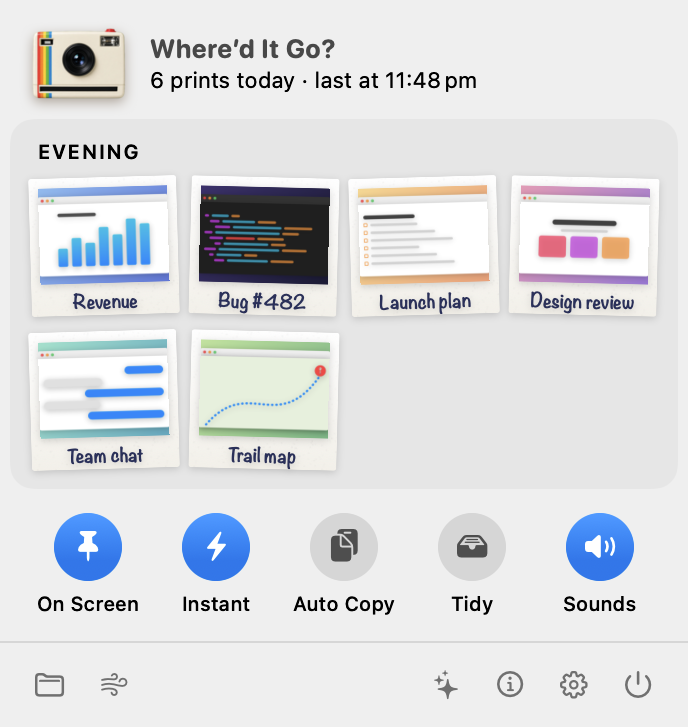
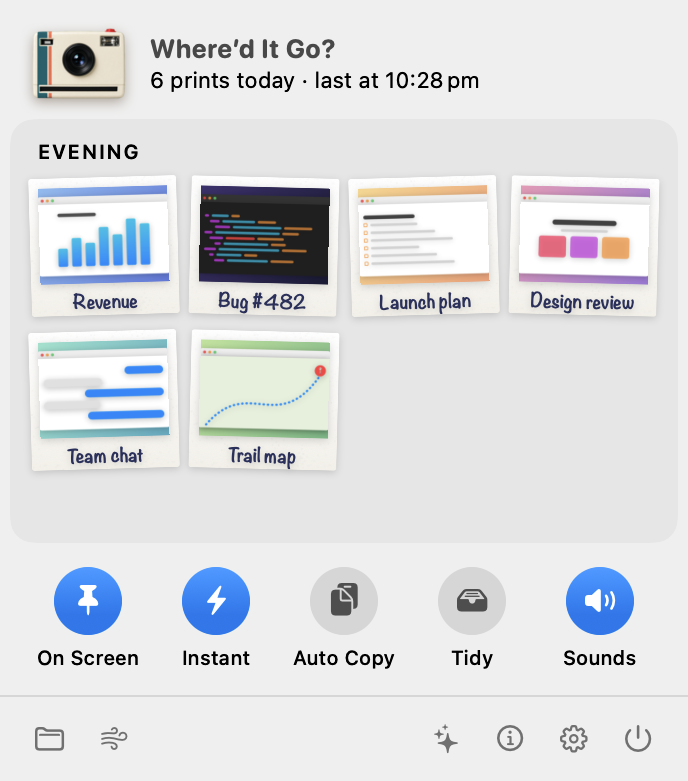
Release 1.1.3: our own teal and coral camera stripe, refreshed README images

diff --git a/Sources/WheredItGo/Views/MenuContent.swift b/Sources/WheredItGo/Views/MenuContent.swift
@@ -19,6 +19,12 @@ struct MenuContent: View {
 
     /// Room for two time-of-day rows of prints, or two rows under one heading; more scrolls.
     private static let sheetHeight: CGFloat = 212
+    #if DEBUG
+    /// Snapshots can't draw a scroll view's contents.
+    static var drawsFlat = false
+    #else
+    private static let drawsFlat = false
+    #endif
 
     private var today: [Shot] {
         model.shots.filter { Calendar.current.isDateInToday($0.date) }
@@ -37,6 +43,8 @@ struct MenuContent: View {
                     accessNeeded
                 } else if today.isEmpty {
                     emptyState
+                } else if Self.drawsFlat {
+                    contactSheet.frame(maxHeight: .infinity, alignment: .top)
                 } else {
                     ScrollView { contactSheet }
                         .scrollIndicators(.automatic)
@@ -99,9 +107,14 @@ struct MenuContent: View {
                             .tracking(0.8)
                             .foregroundStyle(.tertiary)
                             .padding(.leading, 4)
-                        LazyVGrid(columns: Array(repeating: GridItem(.fixed(74), spacing: 6), count: 4), alignment: .leading, spacing: 8) {
-                            ForEach(Array(shots.enumerated()), id: \.element.id) { index, shot in
-                                MiniPrint(shot: shot, model: model, tilt: index.isMultiple(of: 2) ? -1.6 : 1.4, close: closeMenu)
+                        Grid(alignment: .leading, horizontalSpacing: 6, verticalSpacing: 8) {
+                            ForEach(Array(stride(from: 0, to: shots.count, by: 4)), id: \.self) { start in
+                                GridRow {
+                                    ForEach(start..<min(start + 4, shots.count), id: \.self) { index in
+                                        MiniPrint(shot: shots[index], model: model, tilt: index.isMultiple(of: 2) ? -1.6 : 1.4, close: closeMenu)
+                                            .frame(width: 74)
+                                    }
+                                }
                             }
                         }
                     }

diff --git a/Sources/WheredItGo/Debug/Snapshots.swift b/Sources/WheredItGo/Debug/Snapshots.swift
@@ -114,8 +114,10 @@ enum Snapshots {
         try write(AnyView(MenuContent(model: model, showWelcome: {}, showAbout: {}).background(.regularMaterial)),
                   to: folder.appending(path: "10-menu-empty.png"))
         model.stage(shots: shots, printing: nil, develop: 1, expanded: false, hint: false)
+        MenuContent.drawsFlat = true
         try write(AnyView(MenuContent(model: model, showWelcome: {}, showAbout: {}).background(.regularMaterial)),
                   to: folder.appending(path: "10-menu.png"))
+        MenuContent.drawsFlat = false
         try write(AnyView(AboutView(model: model, animated: false).background(Color(nsColor: .windowBackgroundColor))),
                   to: folder.appending(path: "11-about.png"))
         try write(AnyView(HStack(spacing: 20) {

diff --git a/Sources/WheredItGo/Model/DeskModel.swift b/Sources/WheredItGo/Model/DeskModel.swift
@@ -451,7 +451,7 @@ final class DeskModel {
         return CGSize(width: dx / distance * reach, height: dy / distance * reach)
     }
 
-    /// Wiggling the pointer over a developing print speeds it up, like shaking a Polaroid.
+    /// Wiggling the pointer over a developing print speeds it up, like shaking an instant photo.
     private func shake(x: CGFloat) {
         defer { lastPointerX = x }
         guard printing != nil, feedSheet == nil, let last = lastPointerX else { return }

diff --git a/README.md b/README.md
@@ -18,7 +18,7 @@
 
 You take a screenshot, the little preview vanishes before you can drag it anywhere, and the file lands somewhere on a Desktop full of `Screenshot 2026-10-08 at 5.41.12 PM.png`. Which one was it?
 
-**Where’d It Go?** keeps today’s screenshots right where you can grab them. Each new screenshot is printed by an instant camera in the corner of your screen, develops like a Polaroid, and drops onto a pile. Drag any print straight into Slack, Mail, Figma, or Finder.
+**Where’d It Go?** keeps today’s screenshots right where you can grab them. Each new screenshot is printed by an instant camera in the corner of your screen, develops like instant film, and drops onto a pile. Drag any print straight into Slack, Mail, Figma, or Finder.
 
 <p align="center">
   <img src="docs/images/0-hero.png" width="560" alt="A new screenshot curling out of the camera’s slot, next to the pile of today’s prints">
@@ -29,7 +29,7 @@ You take a screenshot, the little preview vanishes before you can drag it anywhe
 ### Printing
 
 - **Prints like real instant film.** Take a screenshot and the camera pops up in the corner. The print feeds out of the slot over a couple of seconds, curling toward you as it sags under its own weight, then drops flat and starts to develop.
-- **Shake it.** Wiggle the pointer over a developing print to speed it up, like shaking a Polaroid. You can also drag it away before it’s done.
+- **Shake it.** Wiggle the pointer over a developing print to speed it up, like shaking an instant photo. You can also drag it away before it’s done.
 - **A camera with a little personality.** The lens follows your pointer around the screen, and the camera gives a happy hop when a print lands.
 - **Handwritten captions.** On-device text recognition writes each print’s most prominent words on it, so you can tell prints apart at a glance. Nothing leaves your Mac.
 
@@ -56,7 +56,7 @@ You take a screenshot, the little preview vanishes before you can drag it anywhe
 
 Click the photo-stack icon in the menu bar to open a small panel:
 
-- **Today’s contact sheet.** Today’s prints as mini Polaroids, grouped into morning, afternoon, and evening. Click one to open it, drag it into any app, or right-click to copy it, copy its text, or show it in Finder. With nothing printed yet, the panel shows the screenshot shortcuts instead.
+- **Today’s contact sheet.** Today’s prints as mini instant photos, grouped into morning, afternoon, and evening. Click one to open it, drag it into any app, or right-click to copy it, copy its text, or show it in Finder. With nothing printed yet, the panel shows the screenshot shortcuts instead.
 - **Quick switches.** Round toggles for **On Screen** (keep the pile visible), **Instant** (skip the five-second macOS thumbnail delay), **Auto Copy** (put every new screenshot on the clipboard), **Tidy** (file screenshots under `Pictures/Where’d It Go/<date>`), and **Sounds**.
 - **Everything else, one click away.** Open the screenshots folder, sweep the pile, replay the welcome tour, and open About, Settings, or Quit.
 
@@ -129,7 +129,7 @@ Upload `build/WheredItGo.pkg` with Apple’s Transporter app.
 Sources/WheredItGo/
   App/       App entry point, the floating panel, the app icon artwork
   Model/     The desk model (watching, printing, the pile) and screenshot items
-  Views/     Camera, Polaroid, pile, menu, settings, and welcome views
+  Views/     Camera, print, pile, menu, settings, and welcome views
   Support/   Preferences, screenshot folder helpers, and sounds
   Debug/     Debug-only snapshot renderer for reviewing the UI
 Resources/   Info.plist, entitlements, privacy manifest, and the camera photo
